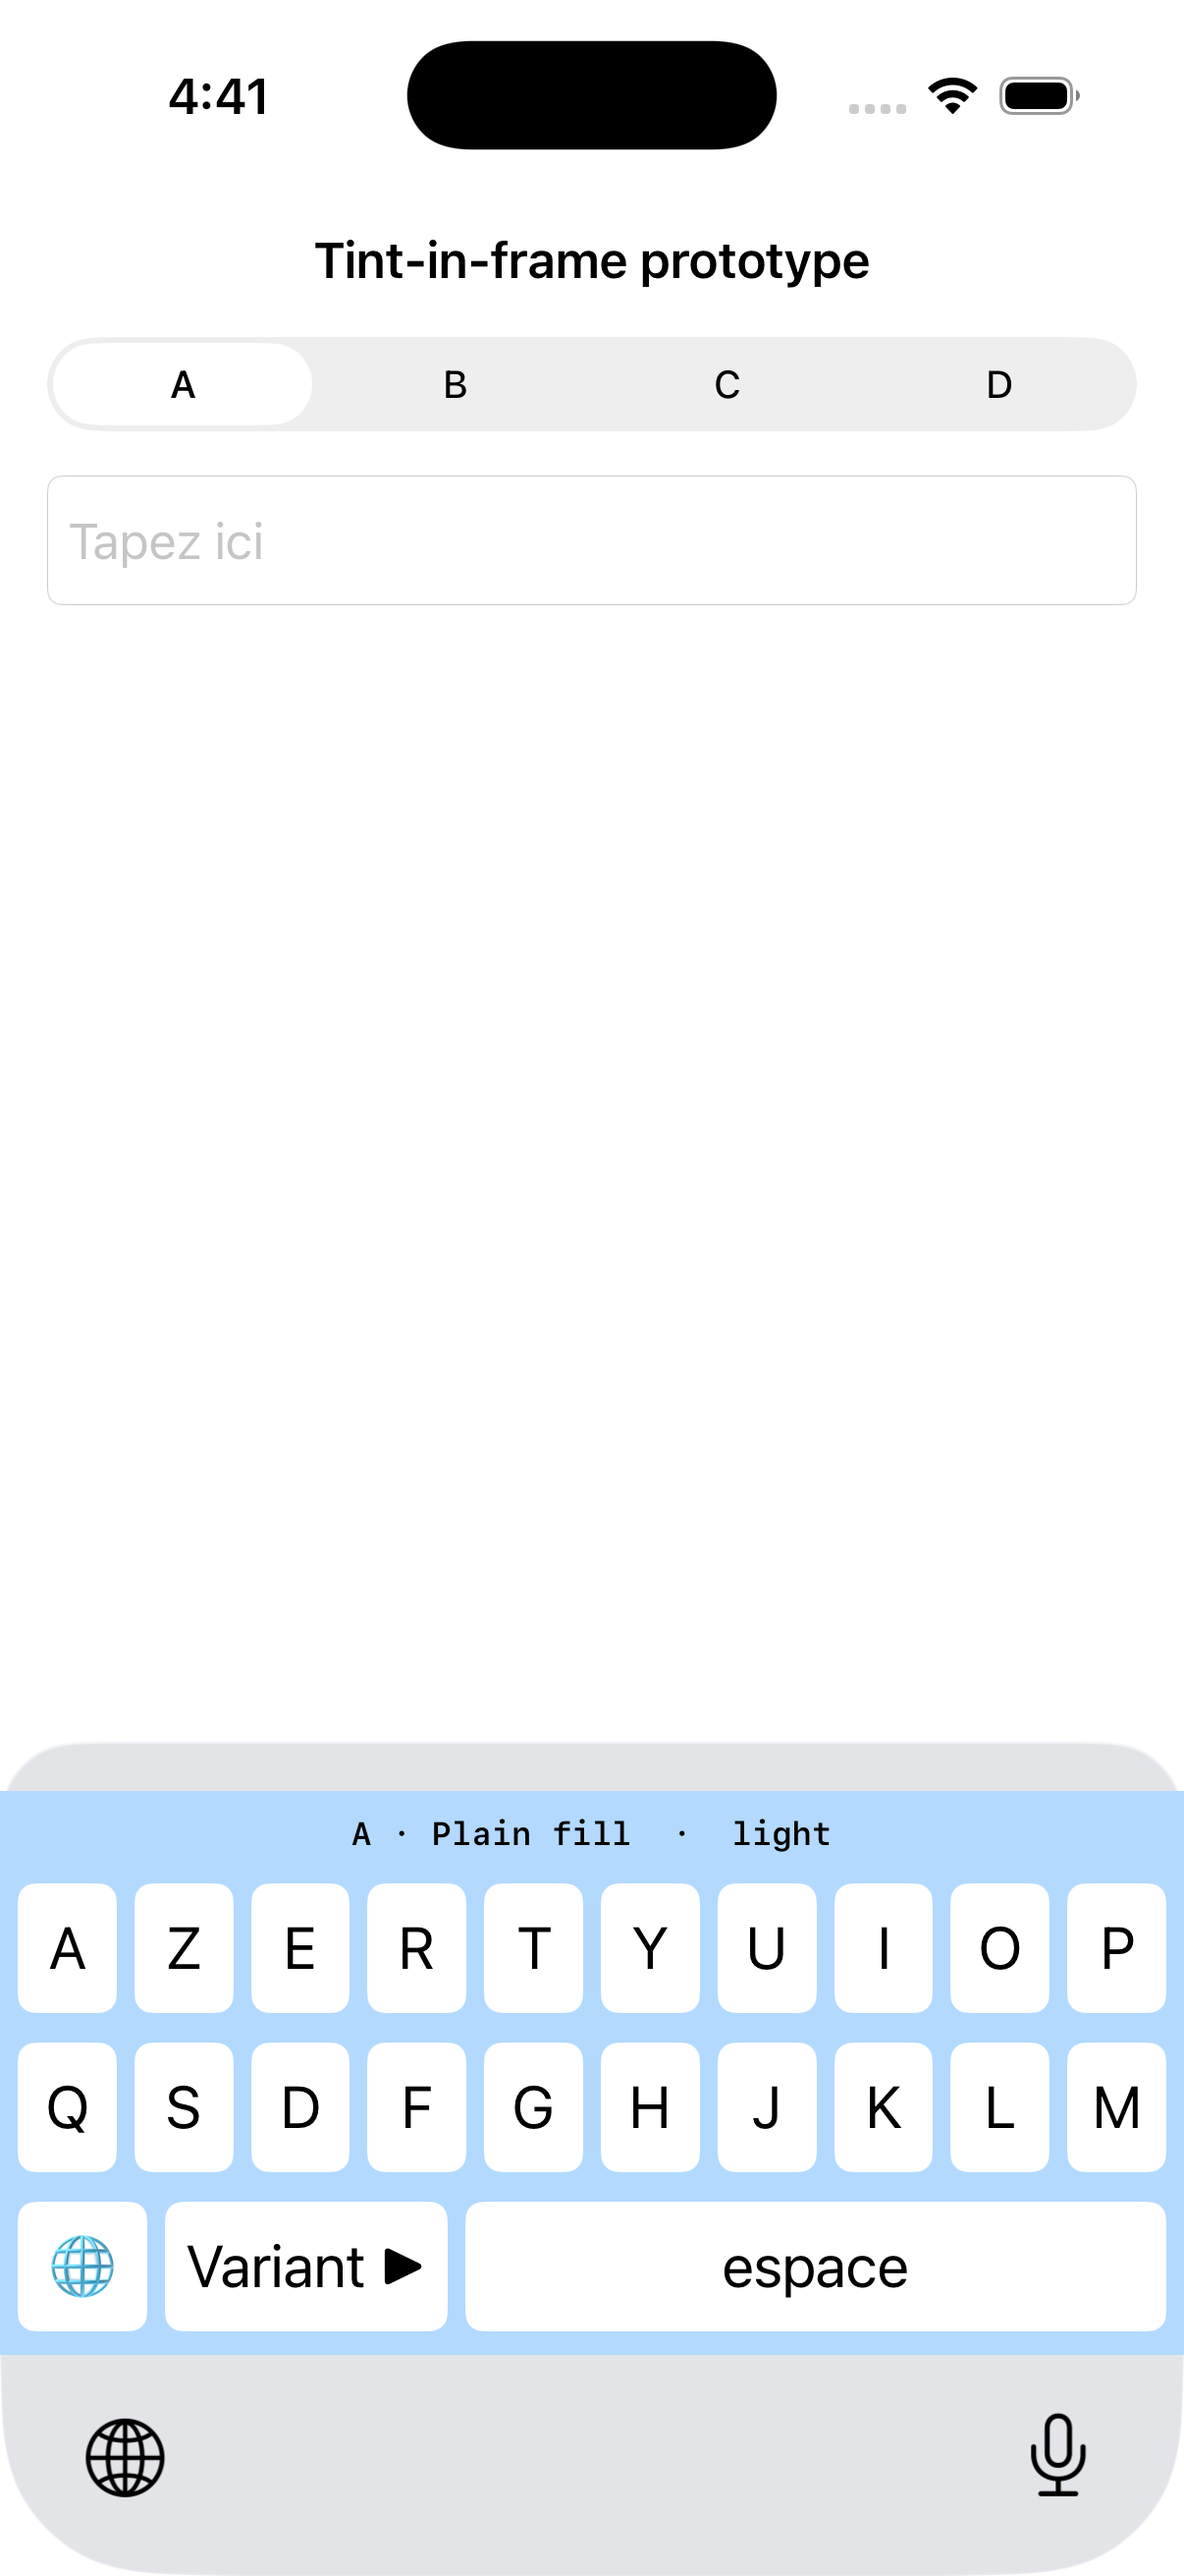
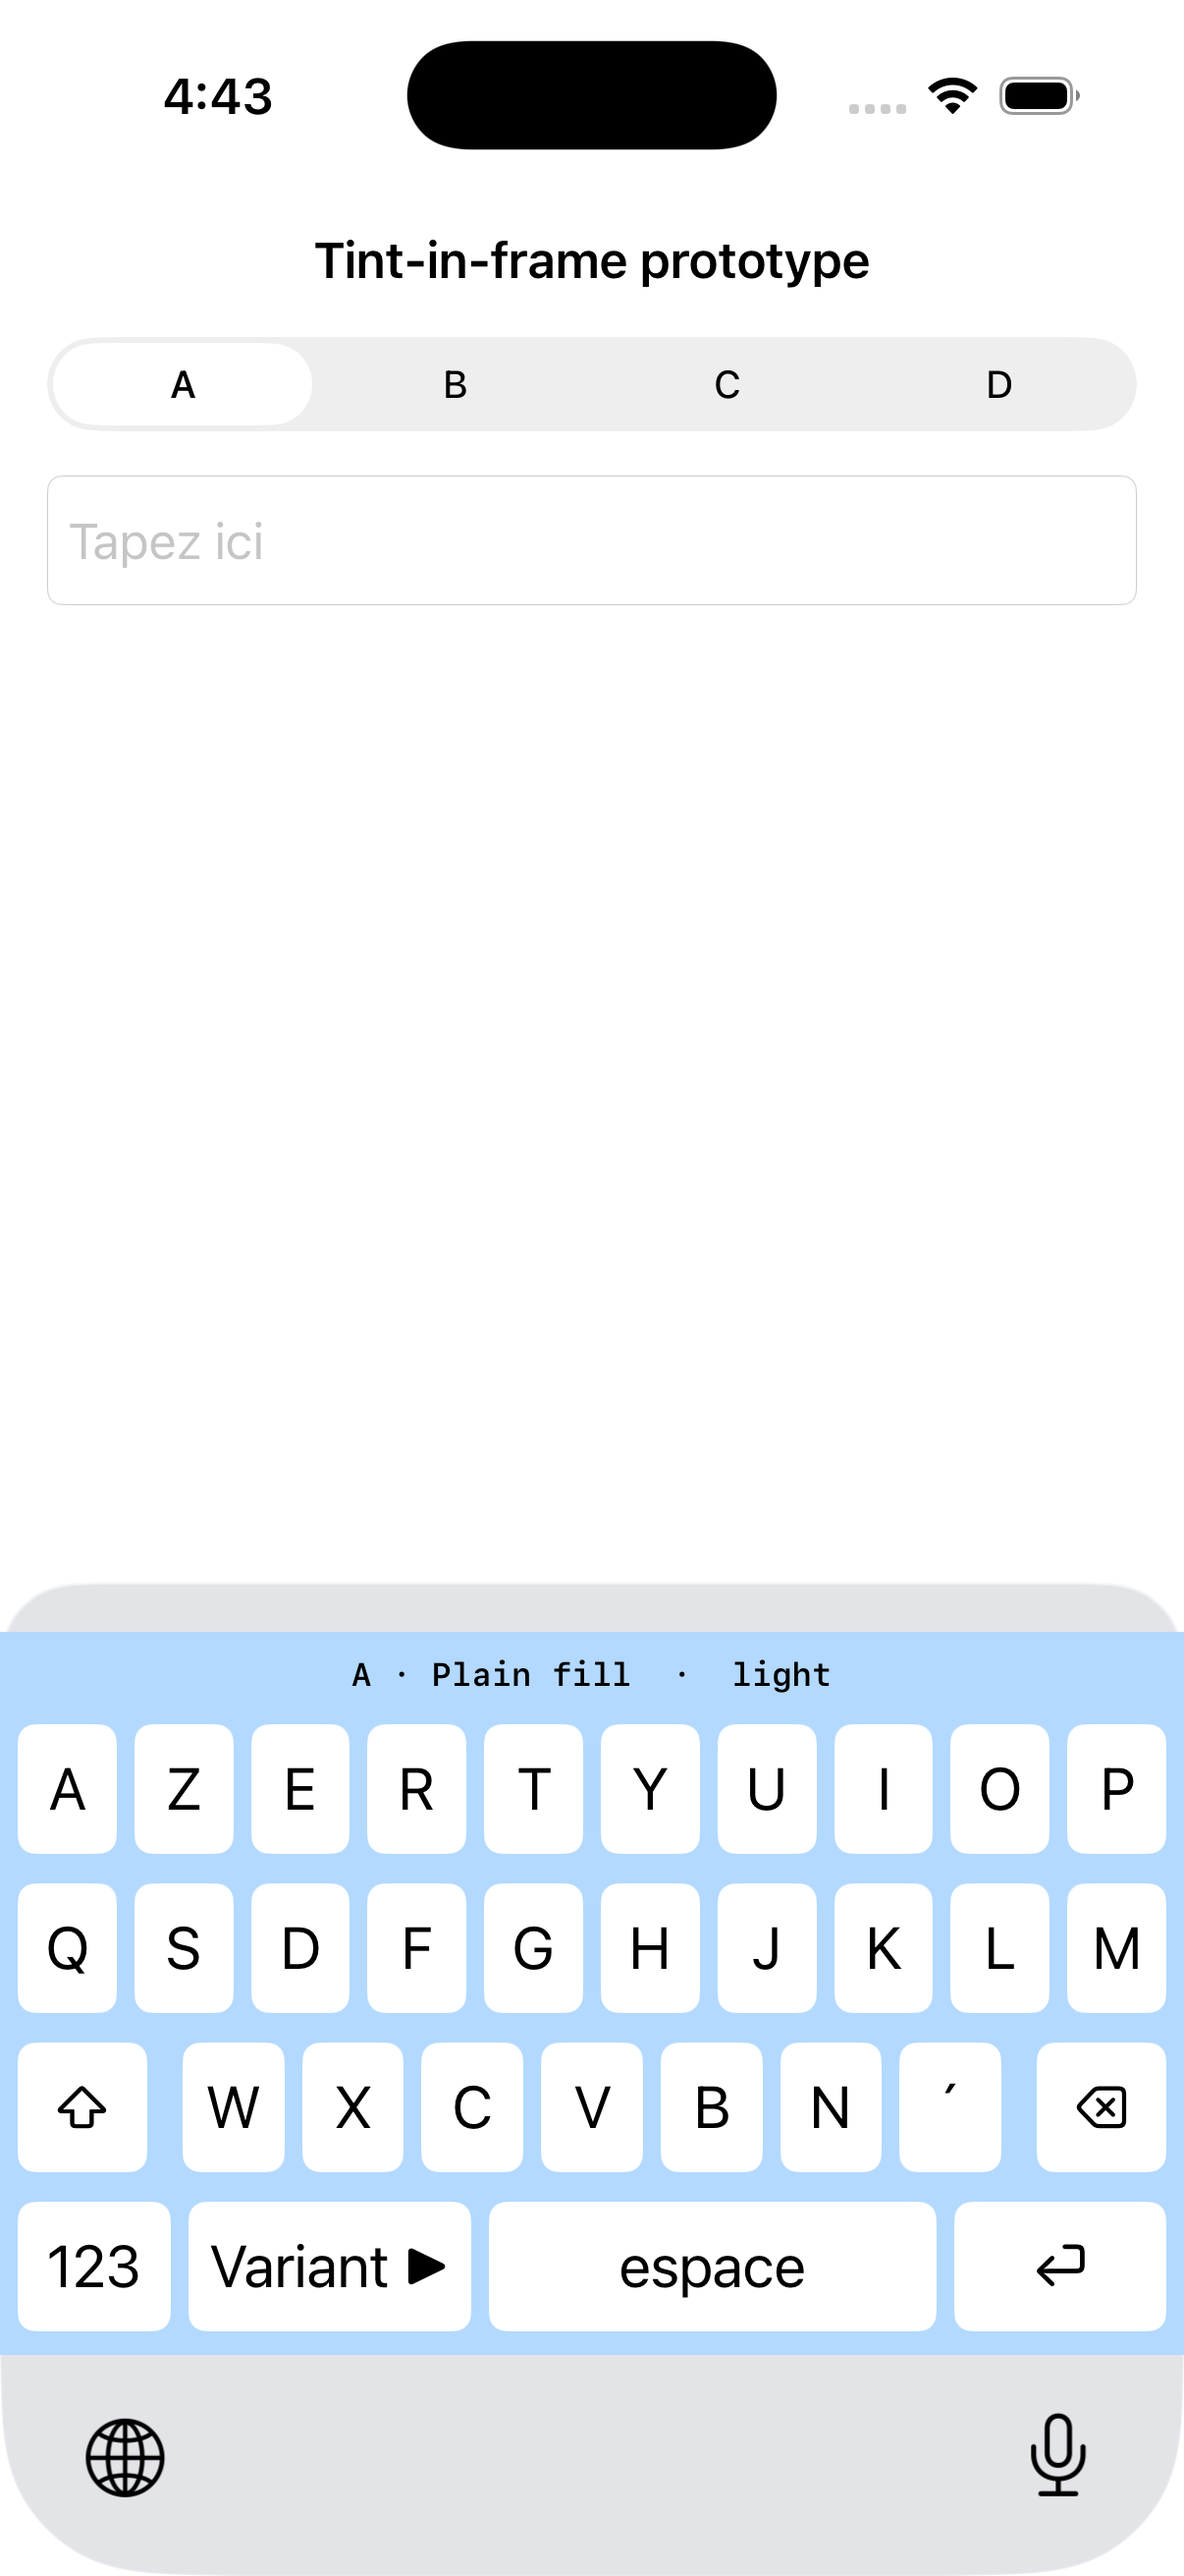
Prototype: add AZERTY row 3 and Apple's bottom row so keyboard height matches

Changed region(s): [[0.0, 0.6178, 1.0, 0.9268], [0.1534, 0.0309, 0.2454, 0.0618]]

diff --git a/app/PrototypeTintKeyboard/KeyboardViewController.swift b/app/PrototypeTintKeyboard/KeyboardViewController.swift
@@ -40,6 +40,7 @@ final class KeyboardViewController: UIInputViewController {
         rows.addArrangedSubview(stateLabel)
         rows.addArrangedSubview(row(["A", "Z", "E", "R", "T", "Y", "U", "I", "O", "P"]))
         rows.addArrangedSubview(row(["Q", "S", "D", "F", "G", "H", "J", "K", "L", "M"]))
+        rows.addArrangedSubview(thirdRow())
         rows.addArrangedSubview(bottomRow())
         view.addSubview(rows)
 
@@ -108,16 +109,35 @@ final class KeyboardViewController: UIInputViewController {
         return stack
     }
 
+    // Row 3 of Apple's French (France) AZERTY: ⇧ W X C V B N ´ ⌫ (see research/french-keyboard-layout).
+    private func thirdRow() -> UIStackView {
+        let shift = key("⇧", action: nil)
+        let delete = key("⌫", action: #selector(deleteBackward))
+        let letters = row(["W", "X", "C", "V", "B", "N", "´"])
+        let stack = UIStackView(arrangedSubviews: [shift, letters, delete])
+        stack.spacing = 12
+        shift.widthAnchor.constraint(equalToConstant: 44).isActive = true
+        delete.widthAnchor.constraint(equalToConstant: 44).isActive = true
+        return stack
+    }
+
+    // Bottom row: 123 · espace · ⏎ like Apple's, with the prototype's Variant key added.
+    // The 🌐 key lives in iOS 26's own strip below the keyboard.
     private func bottomRow() -> UIStackView {
-        let globe = key("🌐", action: nil)
-        globe.addTarget(self, action: #selector(handleInputModeList(from:with:)), for: .allTouchEvents)
+        let numbers = key("123", action: nil)
         let cycle = key("Variant ▶", action: #selector(nextVariant))
         let space = key("espace", action: #selector(insert(_:)))
-        let stack = UIStackView(arrangedSubviews: [globe, cycle, space])
+        let returnKey = key("⏎", action: nil)
+        let stack = UIStackView(arrangedSubviews: [numbers, cycle, space, returnKey])
         stack.spacing = 6
-        globe.widthAnchor.constraint(equalToConstant: 44).isActive = true
+        numbers.widthAnchor.constraint(equalToConstant: 52).isActive = true
         cycle.widthAnchor.constraint(equalToConstant: 96).isActive = true
+        returnKey.widthAnchor.constraint(equalToConstant: 72).isActive = true
         return stack
+    }
+
+    @objc private func deleteBackward() {
+        textDocumentProxy.deleteBackward()
     }
 
     private func key(_ title: String, action: Selector?) -> UIButton {
